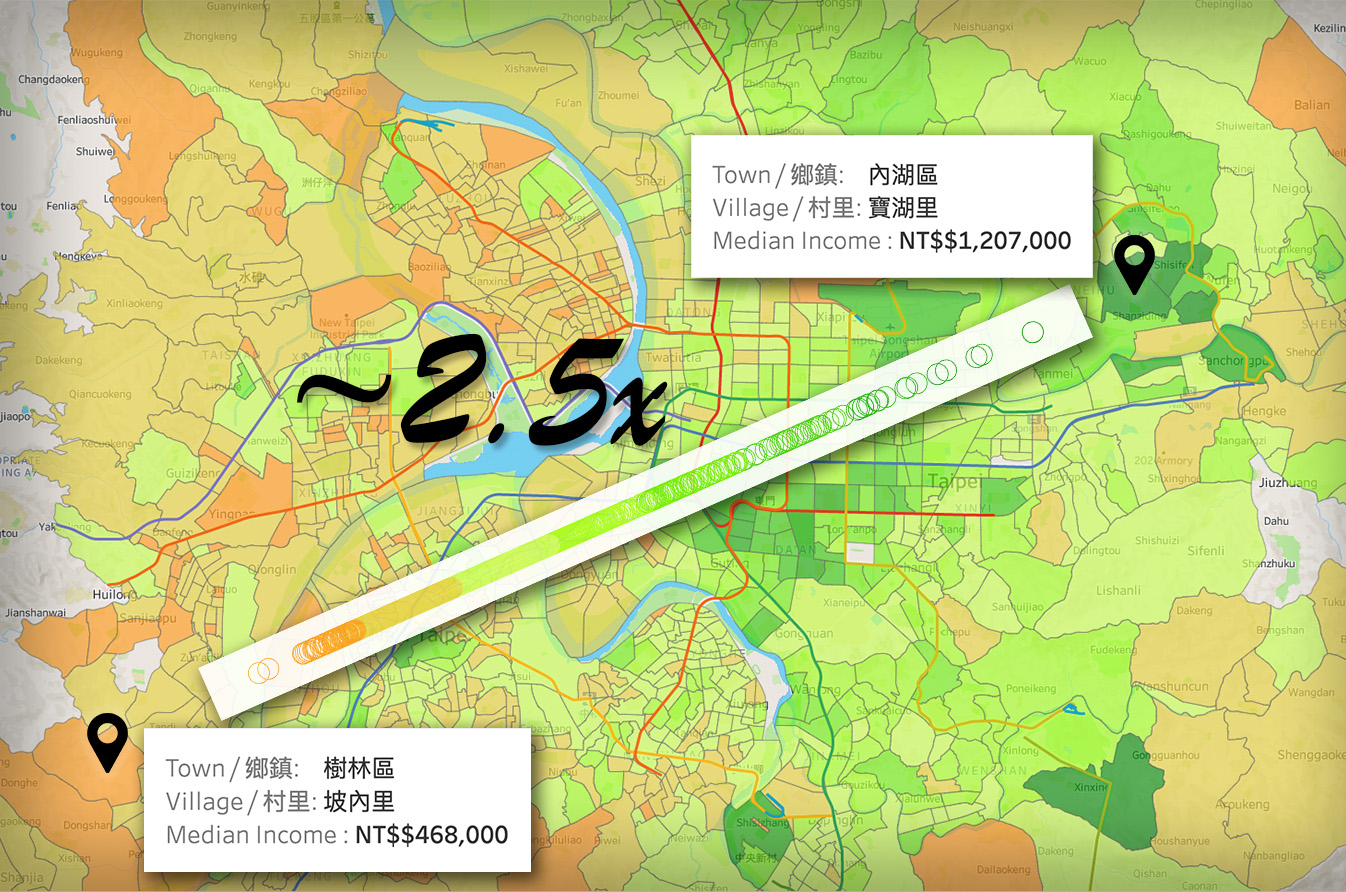
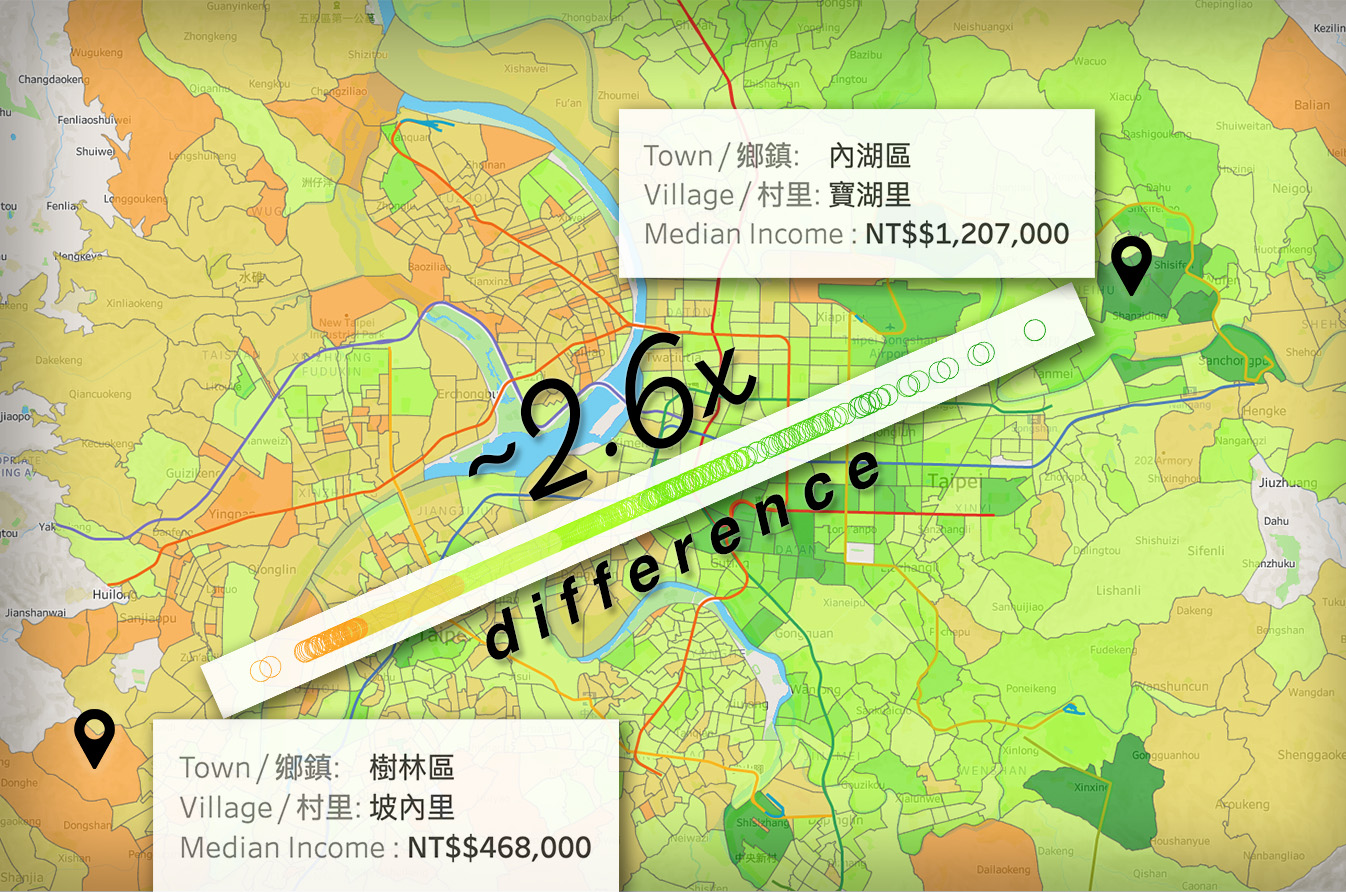
continued on results

diff --git a/src/components/Stories/ColorPalette.js b/src/components/Stories/ColorPalette.js
@@ -281,11 +281,17 @@ const ColorPalette = (props) => {
                     <b>1. Intensity of Income Inequality</b>
                 </p>
                 <p className="overlay-text">
-                    The NYC maps appear to reveal that the range in median income between city sub-districts is much wider than Taipei’s. Specifically, the difference between the sub-district with the lowest median income and the highest median income in NYC is over 10x: US$20,000 vs. US$211,000  (Non-Family and Family Households Average) Whereas, in Taipei, the difference is, at most, about ~2.5x: NT$468k vs. NT$1,207k.
+                    The NYC maps appear to reveal that the range in median income between city sub-districts is much wider than Taipei’s. Specifically, the difference between the sub-district with the lowest median income and the highest median income in NYC is over 10x: US$20,000 vs. US$211,000  (Non-Family and Family Households Average) Whereas, in Taipei, the difference is, at most, about ~2.6x: NT$468k vs. NT$1,207k.
                 </p>
                 <div class="overlay-tableau-container">
-                    <img src="/website/images/nyc_intensity.jpg" style={{ width: isDesktop ? "500px" : "100%", height: isDesktop ? "auto" : "auto" }}></img>
-                    <img src="/website/images/taipei_intensity.jpg" style={{ width: isDesktop ? "500px" : "100%", height: isDesktop ? "auto" : "auto" }}></img>
+                    <div className="overlay-text-visual-container">
+                        <img src="/website/images/nyc_intensity.jpg" style={{ width: isDesktop ? "500px" : "100%", height: isDesktop ? "auto" : "auto" }}></img>
+                        <p className="overlay-visual-note">NYC Lowest and Highest Zip Code Median Income Difference (Average of Family and Non-Family Households) [3,5]</p>
+                    </div>
+                    <div className="overlay-text-visual-container">
+                        <img src="/website/images/taipei_intensity.jpg" style={{ width: isDesktop ? "500px" : "100%", height: isDesktop ? "auto" : "auto" }}></img>
+                        <p className="overlay-visual-note">Taipei Lowest and Highest Village Median Income Difference (Taxable Households) [2,4]</p>
+                    </div>
                 </div>
                 <br></br>
                 <p className="overlay-text-b">
@@ -297,6 +303,29 @@ const ColorPalette = (props) => {
                 <p className="overlay-text">
                     Putting aside numbers for a moment, this income class integration in Taipei can also be felt when wandering XinYi district / 信義區. This district in Taipei possesses the highest sky-rises, luxury shopping centers and apartments, but at the same time, it is still also inhabited by everyday folk. This could explain why, despite the apparent prosperity in XinYi district, the median income is nevertheless not incredibly high compared to other sub-districts in Taipei. (the majority of sub-districts’ medium incomes within XinYi district fall within Taiwan’s 3rd and 4th mean income quintiles) Whereas in NYC, the majority of sub-districts in downtown Manhattan have median household incomes that fall into the US’ 5th / highest mean income quintile.
                 </p>
+                <div class="overlay-tableau-container">
+                <div className="overlay-text-visual-container">
+                        <img src="/website/images/vernon-raineil-cenzon-oi3i-KGp95A-unsplash.jpg" style={{ width: isDesktop ? "500px" : "100%", height: isDesktop ? "auto" : "auto" }}></img>
+                        <p className="overlay-visual-note">Photo by <a href="https://unsplash.com/@thevernon?utm_source=unsplash&utm_medium=referral&utm_content=creditCopyText">Vernon Raineil Cenzon</a>
+  </p>
+                    </div>
+                    <div className="overlay-text-visual-container">
+                        <img src="/website/images/ivan-hutomo-YMraIPFX8Bw-unsplash.jpg" style={{ padding: "auto", width: isDesktop ? "300px" : "100%", height: isDesktop ? "auto" : "auto" }}></img>
+                        <p className="overlay-visual-note" style={{ padding: "auto", width: isDesktop ? "300px" : "100%", height: isDesktop ? "auto" : "auto" }}>Photo by <a href="https://unsplash.com/@alexivaner?utm_source=unsplash&utm_medium=referral&utm_content=creditCopyText">Ivan Hutomo</a> 
+  </p>
+                    </div>
+                    <div className="overlay-text-visual-container">
+                        <img src="/website/images/eric-barbeau-rJ1igIZDcAI-unsplash.jpg" style={{ width: isDesktop ? "500px" : "100%", height: isDesktop ? "auto" : "auto" }}></img>
+                        <p className="overlay-visual-note">Photo by <a href="https://unsplash.com/@ericbarbeau?utm_source=unsplash&utm_medium=referral&utm_content=creditCopyText">Eric BARBEAU</a> 
+  </p>
+                    </div>
+                   
+                    <div className="overlay-text-visual-container">
+                        <img src="/website/images/markus-winkler-hkCVGNHBmow-unsplash.jpg" style={{ width: isDesktop ? "300px" : "100%", height: isDesktop ? "auto" : "auto" }}></img>
+                        <p className="overlay-visual-note" style={{ padding: "auto", width: isDesktop ? "300px" : "100%", height: isDesktop ? "auto" : "auto" }}>Photo by <a href="https://unsplash.com/@markuswinkler?utm_source=unsplash&utm_medium=referral&utm_content=creditCopyText">Markus Winkler</a> 
+  </p>
+                    </div>
+                </div>
                 <p className="overlay-text-b">
                     <b>3. Color Schemes</b>
                 </p>

diff --git a/src/App.css b/src/App.css
@@ -1351,7 +1351,20 @@ a.ref-text {
 .overlay-tableau {
 }
 
+.overlay-visual-note {
+  width: 500px;
+  text-align: center;
+  font-size: 10pt;
+  color: grey;
+  word-wrap: break-word;
+}
+
 .overlay-text-visual-container {
+  display: flex;
+  flex-direction: column;
+  width: auto;
+  justify-content: center;
+  align-items: center;
 }
 
 @media screen and (max-width: 900px) {
@@ -1369,7 +1382,7 @@ a.ref-text {
     /* margin-top: 0; */
     margin: 0 0 30px 0;
     
-    width: auto;
+    width: 100%;
     /* height: 500px; */
 
   }
@@ -1380,6 +1393,10 @@ a.ref-text {
 
   .overlay-tableau {
     margin-bottom: 20px;
+  }
+
+  .overlay-visual-note {
+    width: 100%;
   }
 
 
